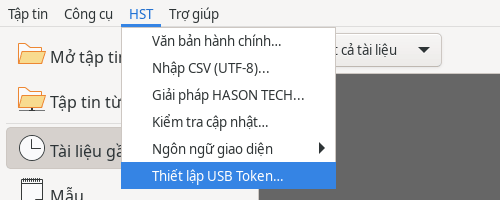
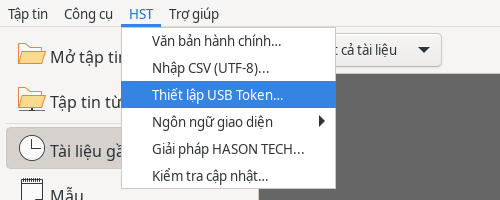
docs(help): refresh HST menu screenshots for the new order

diff --git a/extensions/hst-vietnamese-tools/help/ky-so-usb-token.html b/extensions/hst-vietnamese-tools/help/ky-so-usb-token.html
@@ -56,7 +56,7 @@
   <li>Đọc kết quả: thư viện đã tìm thấy, đã đăng ký và đường dẫn kho chứng thư. Lệnh chỉ kết nối driver đã cài với HST Office; không cài hoặc kèm driver.</li>
   <li>Nếu được yêu cầu, đóng hết cửa sổ HST Office rồi mở lại. Cắm token và vào <span class="menu">Tập tin ▸ Chữ ký số…</span> để chọn chứng thư và ký.</li>
 </ol>
-<figure><img src="images/usb-token-menu.png" alt="Menu HST đang mở ở Trang bắt đầu, mục cuối cùng Thiết lập USB Token… đang được chọn." loading="lazy" width="500" height="200"><figcaption>Menu <span class="menu">HST ▸ Thiết lập USB Token…</span> ở Trang bắt đầu.</figcaption></figure>
+<figure><img src="images/usb-token-menu.png" alt="Menu HST đang mở ở Trang bắt đầu, mục Thiết lập USB Token… đang được chọn." loading="lazy" width="500" height="200"><figcaption>Menu <span class="menu">HST ▸ Thiết lập USB Token…</span> ở Trang bắt đầu.</figcaption></figure>
 <figure><img src="images/usb-token-result.png" alt="Hộp thoại Thiết lập USB Token báo kho chứng thư /home/nguoidung/.pki/nssdb, đã tìm thấy và đăng ký Feitian ePass2003 tại /usr/lib/x86_64-linux-gnu/libcastle.so.1.0.0, yêu cầu khởi động lại HST Office; nút Đồng ý." loading="lazy" width="585" height="232"><figcaption>Kết quả sau khi đăng ký thành công: kho chứng thư, thư viện đã đăng ký và việc cần làm tiếp theo.</figcaption></figure>
 <p>Chạy lại lệnh không tạo bản đăng ký trùng và không xóa thư viện đã đăng ký. Thiết lập không yêu cầu mã PIN; hộp thoại ký tài liệu mới hỏi mã PIN của thiết bị.</p>
 <div class="note"><p>Nếu chưa tìm thấy thư viện, cài driver từ nhà cung cấp của bạn rồi chạy lại lệnh. Các tên thường gặp gồm Feitian ePass2003, SafeNet eToken, Bit4id và OpenSC. Chỉ dùng OpenSC nếu loại token được hỗ trợ; không phải mọi token của nhà cung cấp đều dùng được với OpenSC.</p></div>

diff --git a/extensions/hst-vietnamese-tools/help/nd30.html b/extensions/hst-vietnamese-tools/help/nd30.html
@@ -37,7 +37,7 @@
   <li>Cách khác: menu <span class="menu">HST → Văn bản hành chính…</span> (nếu thanh menu đang hiện), hoặc thẻ <span class="menu">Phần mở rộng</span>. Mục menu này có cả ở <span class="menu">Trang bắt đầu</span>, HST Sheets và HST Slides; khi chọn ở đó, HST Office tự mở một văn bản trắng mới rồi mới hiện hộp thoại.</li>
 </ol>
 <figure><img src="images/nd30-where.png" alt="Thẻ Trang đầu của HST Writer, nút Văn bản hành chính nằm trong khung đỏ ở góc phải dải lệnh, dưới Tìm và thay thế." loading="lazy" width="1251" height="160"><figcaption>Nút <span class="menu">Văn bản hành chính</span> trên thẻ <span class="menu">Trang đầu</span> (khung đỏ).</figcaption></figure>
-<figure><img src="images/nd30-menu.png" alt="Menu HST đang mở ở Trang bắt đầu, mục đầu tiên là Văn bản hành chính…" loading="lazy" width="500" height="145"><figcaption>Menu <span class="menu">HST → Văn bản hành chính…</span> ở Trang bắt đầu.</figcaption></figure>
+<figure><img src="images/nd30-menu.png" alt="Menu HST đang mở ở Trang bắt đầu, mục đầu tiên là Văn bản hành chính…" loading="lazy" width="500" height="200"><figcaption>Menu <span class="menu">HST → Văn bản hành chính…</span> ở Trang bắt đầu.</figcaption></figure>
 <h2>Mở công cụ và nhập thông tin</h2>
 <ol>
   <li>Trong HST Writer, đặt con trỏ tại vị trí muốn chèn văn bản.</li>
